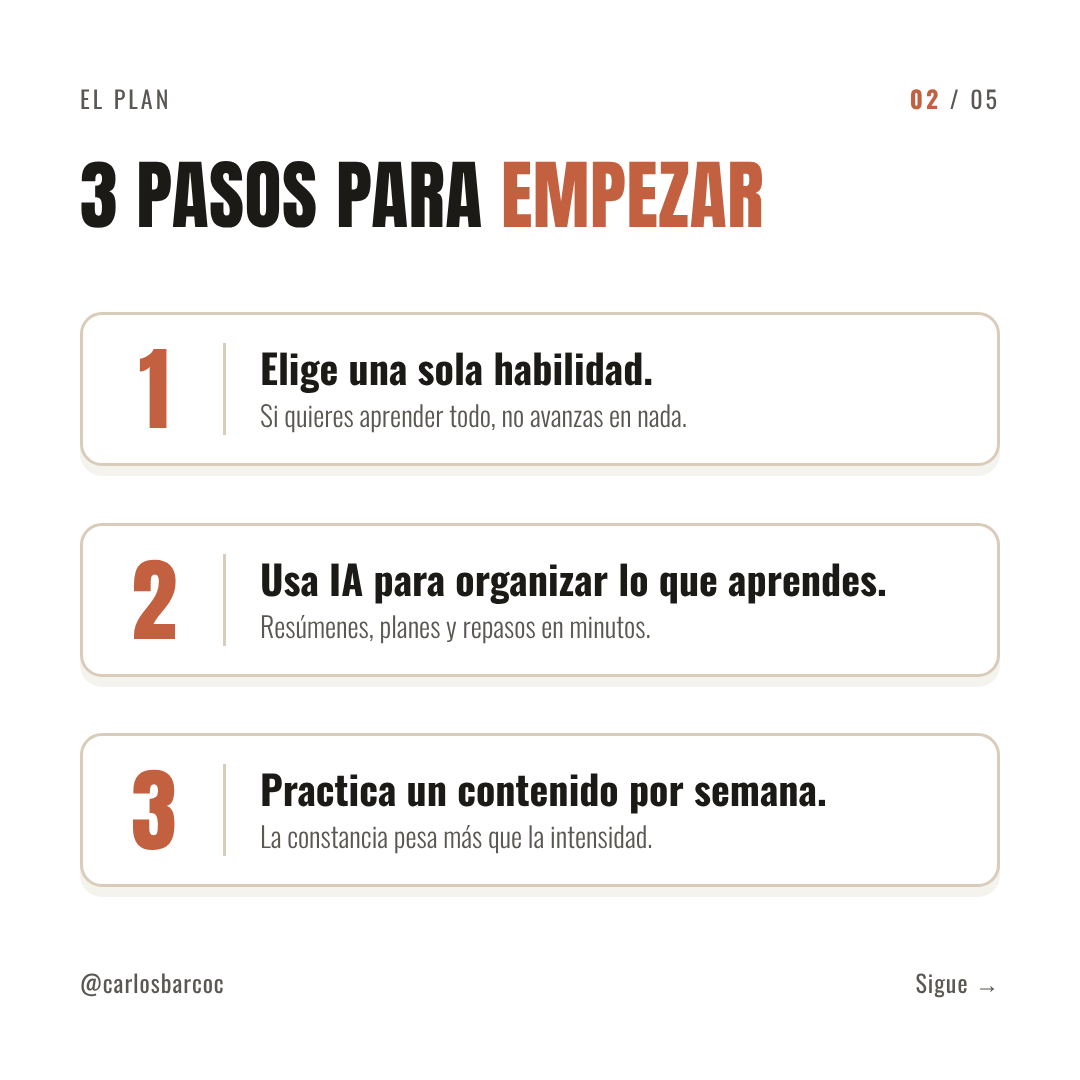
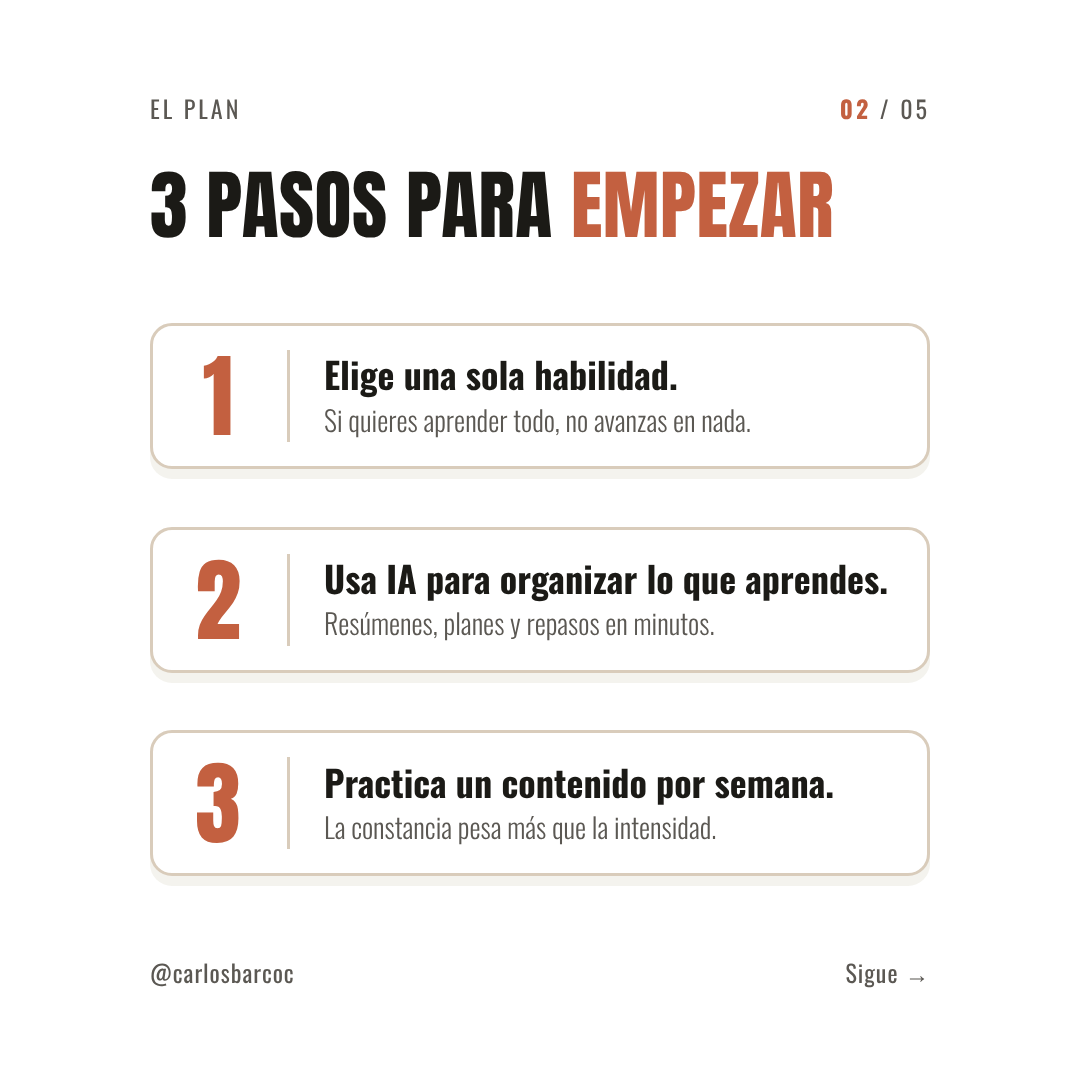
Carrusel 8 nov: contenido dentro de la zona segura del recorte 3:4 de Instagram
Claude-Session: https://claude.ai/code/session_019bFrSyepgvdwRXM8JWAmzS

diff --git a/proyectos/2026-11-08-carrusel-empezar/carrusel.js b/proyectos/2026-11-08-carrusel-empezar/carrusel.js
@@ -7,7 +7,7 @@ const base = `
 *{margin:0;padding:0;box-sizing:border-box}
 html,body{width:1080px;height:1080px;overflow:hidden}
 body{background:var(--bg);font-family:'Oswald',sans-serif;color:${C.car};position:relative}
-.safe{position:absolute;left:80px;top:80px;width:920px;height:920px;display:flex;flex-direction:column}
+.safe{position:absolute;left:150px;top:90px;width:780px;height:900px;display:flex;flex-direction:column}
 .top{display:flex;justify-content:space-between;align-items:center;font:400 24px 'Oswald';letter-spacing:3px;color:${C.gri};text-transform:uppercase}
 .top b{color:${C.ter};font-weight:700}
 h1{font-family:'Anton';font-weight:400;text-transform:uppercase;line-height:1.04;letter-spacing:.5px}
@@ -21,7 +21,7 @@ const top = (n, tag) => `<div class="top"><span>${tag}</span><span><b>0${n}</b> 
 const foot = (r) => `<div class="foot"><span>@carlosbarcoc</span><span>${r}</span></div>`;
 
 const notebook = `
-<svg width="920" height="330" viewBox="0 0 920 330">
+<svg width="780" height="280" viewBox="0 0 920 330">
  <defs>
   <linearGradient id="luz" x1="1" y1="0" x2="0" y2="1">
    <stop offset="0" stop-color="#F2C9A4" stop-opacity=".75"/><stop offset=".6" stop-color="#F4F3EE" stop-opacity="0"/>
@@ -56,7 +56,7 @@ const notebook = `
 </svg>`;
 
 const clock = `
-<svg width="300" height="300" viewBox="-150 -150 300 300">
+<svg width="260" height="260" viewBox="-150 -150 300 300">
  <circle r="140" fill="#FFFFFF" stroke="${C.bei}" stroke-width="6"/>
  <path d="M0 0 L0 -118 A118 118 0 0 1 102.2 59 Z" fill="${C.ter}" opacity=".9"/>
  ${Array.from({length:12},(_,i)=>{const a=i*Math.PI/6;return `<line x1="${Math.sin(a)*124}" y1="${-Math.cos(a)*124}" x2="${Math.sin(a)*134}" y2="${-Math.cos(a)*134}" stroke="${C.car}" stroke-width="4"/>`}).join('')}
@@ -67,7 +67,7 @@ const slides = [
 // 1 Gancho
 {bg:C.mar, html:`<div class="safe">
  ${top(1,'Marca personal · Marketing')}
- <h1 style="font-size:74px;margin-top:40px">Puedes empezar en marketing sin quitarle tiempo a tu familia</h1>
+ <h1 style="font-size:66px;margin-top:40px">Puedes empezar en marketing sin quitarle tiempo a tu familia</h1>
  <p class="sub" style="margin-top:26px">Tu día termina a las <span class="t">5 p. m.</span></p>
  <div style="margin-top:auto">${notebook}</div>
  <div class="foot" style="margin-top:22px"><span>@carlosbarcoc</span><span>Desliza →</span></div>
@@ -80,10 +80,10 @@ const slides = [
  ${[['Elige una sola habilidad.','Si quieres aprender todo, no avanzas en nada.'],
     ['Usa IA para organizar lo que aprendes.','Resúmenes, planes y repasos en minutos.'],
     ['Practica un contenido por semana.','La constancia pesa más que la intensidad.']].map((s,i)=>`
-  <div style="display:flex;align-items:center;gap:34px;background:#fff;border:3px solid ${C.bei};border-radius:22px;padding:28px 36px;box-shadow:0 10px 0 ${C.mar}">
+  <div style="display:flex;align-items:center;gap:34px;background:#fff;border:3px solid ${C.bei};border-radius:22px;padding:24px 30px;box-shadow:0 10px 0 ${C.mar}">
    <div style="font:400 92px/1 'Anton';color:${C.ter};width:70px;text-align:center">${i+1}</div>
    <div style="width:3px;align-self:stretch;background:${C.bei}"></div>
-   <div><div style="font:700 40px/1.15 'Oswald'">${s[0]}</div><div style="font:300 28px/1.35 'Oswald';color:${C.gri};margin-top:6px">${s[1]}</div></div>
+   <div><div style="font:700 36px/1.15 'Oswald'">${s[0]}</div><div style="font:300 28px/1.35 'Oswald';color:${C.gri};margin-top:6px">${s[1]}</div></div>
   </div>`).join('')}
  </div>
  ${foot('Sigue →')}
@@ -93,7 +93,7 @@ const slides = [
  ${top(3,'Tiempo realista')}
  <h1 style="font-size:76px;margin-top:40px">20 minutos al día</h1>
  <div class="rule" style="width:120px;margin-top:28px;background:${C.bei};height:6px"></div>
- <div style="display:flex;align-items:center;gap:56px;margin-top:auto;margin-bottom:auto">
+ <div style="display:flex;align-items:center;gap:40px;margin-top:auto;margin-bottom:auto">
   <div style="flex:none">${clock}</div>
   <div>
    <p class="sub" style="font-size:42px">No necesitas madrugar ni dejar tu empleo.</p>
@@ -131,7 +131,7 @@ const slides = [
   const s=slides[i];
   await p.setContent(`<!doctype html><html><head><meta charset="utf-8">${base}<style>:root{--bg:${s.bg}}</style></head><body>${s.html}</body></html>`,{waitUntil:'networkidle'});
   await p.evaluate(()=>document.fonts.ready);
-  const over = await p.evaluate(()=>[...document.querySelectorAll('.safe *')].filter(e=>{const r=e.getBoundingClientRect();return r.width&&(r.left<79||r.top<79||r.right>1001||r.bottom>1001)}).map(e=>e.tagName+':'+e.textContent.slice(0,20)));
+  const over = await p.evaluate(()=>[...document.querySelectorAll('.safe *')].filter(e=>{const r=e.getBoundingClientRect();return r.width&&(r.left<149||r.top<89||r.right>931||r.bottom>991)}).map(e=>e.tagName+':'+e.textContent.slice(0,20)));
   if(over.length) console.log('slide',i+1,'fuera del margen:',over);
   await p.screenshot({path:`${out}/carrusel-0${i+1}.png`});
  }
